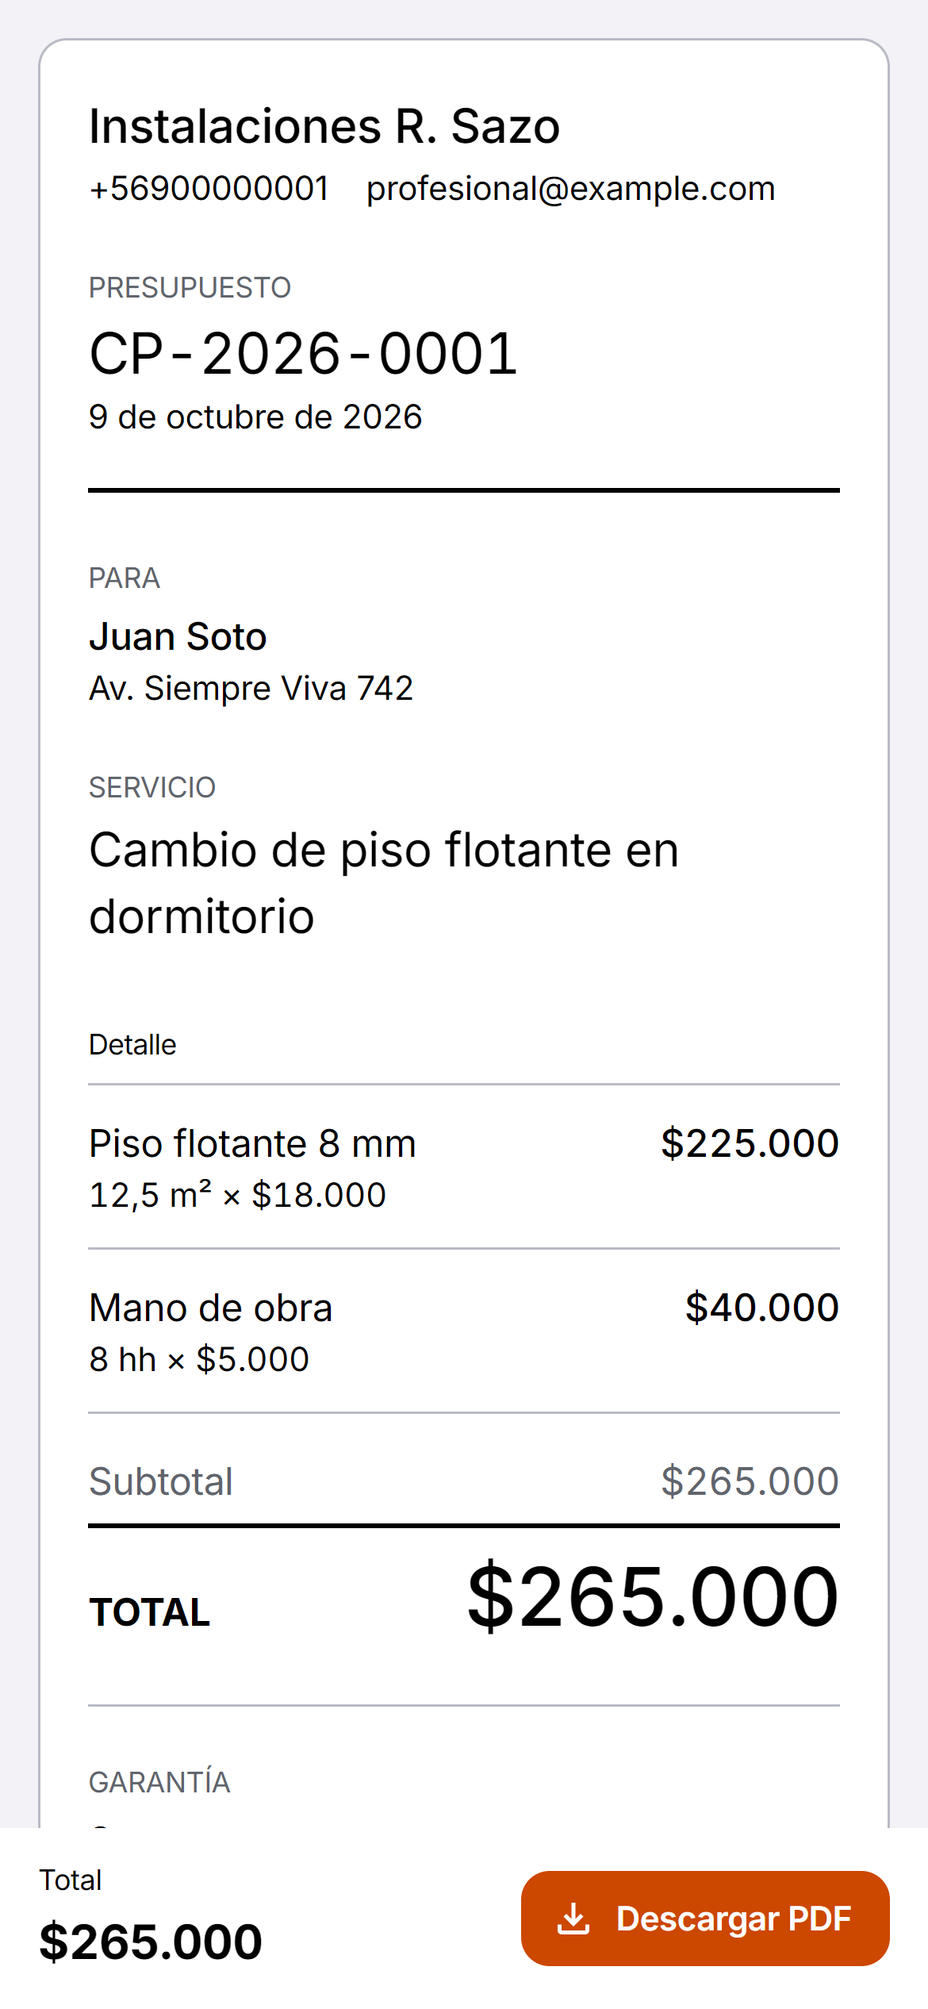
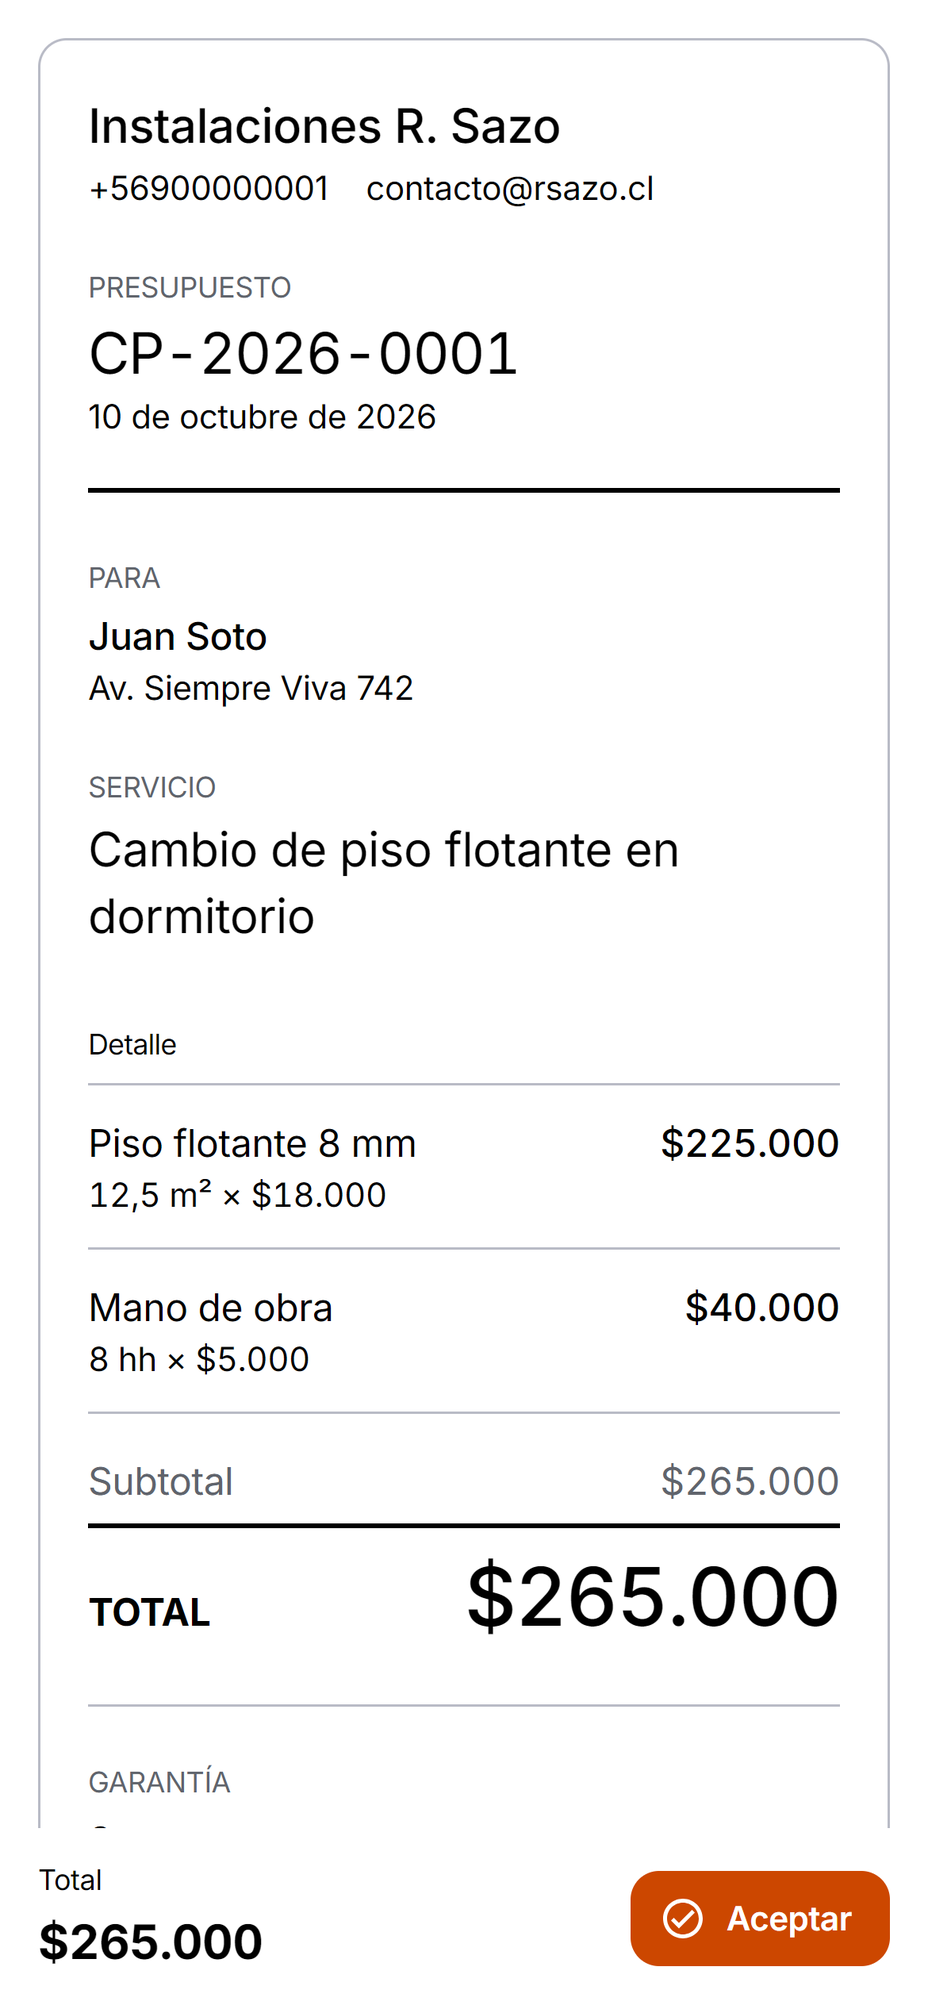
feat(web): la vista del cliente permite aceptar el presupuesto y ya no ofrece el PDF
Panel con «Aceptar el presupuesto» (confirmación en un segundo paso; abierta si llega desde el correo con ?aceptar=1), Llamar y WhatsApp, y el timbre «ACEPTADO» con la fecha. Los textos de la web, la portada y la app dejan de prometer el PDF al cliente antes de aceptar; la foto del teléfono del cliente se cambia por la nueva vista, sin fondo gris.

Changed region(s): [[0.5538, 0.9048, 0.9231, 0.9984], [0.4308, 0.0624, 0.7385, 0.1248], [0.0923, 0.1872, 0.4615, 0.2184]]

diff --git a/frontend/src/app/q/[token]/aceptar.tsx b/frontend/src/app/q/[token]/aceptar.tsx
@@ -1,0 +1,141 @@
+"use client";
+
+import CheckCircleOutline from "@mui/icons-material/CheckCircleOutlined";
+import PhoneOutlined from "@mui/icons-material/PhoneOutlined";
+import WhatsApp from "@mui/icons-material/WhatsApp";
+import Alert from "@mui/material/Alert";
+import Box from "@mui/material/Box";
+import Button from "@mui/material/Button";
+import Paper from "@mui/material/Paper";
+import Stack from "@mui/material/Stack";
+import Typography from "@mui/material/Typography";
+import { useEffect, useRef, useState, useTransition } from "react";
+import { aceptarAction, type EstadoAceptar } from "./acciones";
+
+type Props = {
+  token: string;
+  numero: string;
+  total: string;
+  profesional: { name: string; phone: string };
+  aceptadoEl: string | null; // la fecha legible, si ya está aceptado
+  puede: boolean; // la API dice si todavía se puede aceptar (no vencido, rechazado ni reemplazado)
+  abrir: boolean; // llegó desde el botón «Aceptar el presupuesto» del correo (?aceptar=1): la confirmación ya abierta
+};
+
+// Lo que el cliente puede hacer con su presupuesto (Contrato API §10): aceptarlo, confirmando en un segundo paso (un filtro de correo
+// que abre el enlace no acepta nada), o hablar con el profesional. No hay botón de rechazar. Incluye la barra fija del teléfono, que
+// comparte el estado: «Aceptar» ahí abre la misma confirmación.
+export function Aceptar({ token, numero, total, profesional, aceptadoEl, puede, abrir }: Props) {
+  const [confirmando, setConfirmando] = useState(abrir && puede);
+  const [estado, setEstado] = useState<EstadoAceptar>({});
+  const [enCurso, empezar] = useTransition();
+  const panel = useRef<HTMLDivElement>(null);
+  const tel = profesional.phone.replace(/\D/g, "");
+
+  useEffect(() => {
+    if (abrir && puede) panel.current?.scrollIntoView({ block: "center" });
+  }, [abrir, puede]);
+
+  const abrirConfirmacion = () => {
+    setConfirmando(true);
+    panel.current?.scrollIntoView({ block: "center" });
+  };
+  const aceptar = () => empezar(async () => setEstado(await aceptarAction(token)));
+  const sePuede = puede && !estado.listo && !aceptadoEl;
+
+  return (
+    <>
+      <Paper id="aceptar" ref={panel} component="section" aria-label="Aceptar el presupuesto" sx={{ p: { xs: 2.5, sm: 4 }, display: "flex", flexDirection: "column", gap: 2.5, scrollMarginTop: 16 }}>
+        {estado.listo ? (
+          <Alert severity="success" role="status">
+            ¡Listo! Aceptaste el presupuesto {numero}. {estado.correo ? "Te enviamos el PDF con el timbre «Aceptado» a tu correo. " : ""}
+            {profesional.name} se pondrá en contacto contigo para coordinar el trabajo.
+          </Alert>
+        ) : aceptadoEl ? (
+          <Alert severity="success">
+            Aceptaste este presupuesto el {aceptadoEl}. {profesional.name} se pondrá en contacto contigo para coordinar el trabajo.
+          </Alert>
+        ) : !puede ? (
+          <Alert severity="info">Este presupuesto ya no se puede aceptar en línea. Habla con {profesional.name} para revisarlo.</Alert>
+        ) : confirmando ? (
+          <Stack spacing={2}>
+            <Typography variant="h6" component="h2">
+              ¿Aceptas el presupuesto {numero} por {total}?
+            </Typography>
+            <Typography color="text.secondary">
+              {profesional.name} recibe el aviso al instante y te enviamos el PDF con el timbre «Aceptado» al correo con el que te llegó.
+            </Typography>
+            {estado.error ? <Alert severity="error">{estado.error}</Alert> : null}
+            <Box sx={{ display: "flex", flexWrap: "wrap", gap: 1.5 }}>
+              <Button variant="contained" size="large" startIcon={<CheckCircleOutline />} onClick={aceptar} loading={enCurso} loadingPosition="start" autoFocus>
+                Sí, acepto el presupuesto
+              </Button>
+              <Button size="large" onClick={() => setConfirmando(false)} disabled={enCurso}>
+                Volver
+              </Button>
+            </Box>
+          </Stack>
+        ) : (
+          <Stack spacing={2} sx={{ alignItems: "flex-start" }}>
+            <Typography variant="h6" component="h2">
+              ¿Te parece bien?
+            </Typography>
+            <Button variant="contained" size="large" startIcon={<CheckCircleOutline />} onClick={abrirConfirmacion}>
+              Aceptar el presupuesto
+            </Button>
+          </Stack>
+        )}
+
+        <Stack spacing={1.5} sx={{ pt: 2.5, borderTop: 1, borderColor: "divider" }}>
+          <Typography color="text.secondary">¿Tienes dudas o quieres cambiar algo? Habla con {profesional.name}:</Typography>
+          <Box sx={{ display: "flex", flexWrap: "wrap", gap: 1.5 }}>
+            <Button href={`tel:${profesional.phone}`} variant="outlined" size="large" startIcon={<PhoneOutlined />}>
+              Llamar por teléfono
+            </Button>
+            <Button href={`https://wa.me/${tel}`} target="_blank" rel="noopener noreferrer" variant="outlined" size="large" startIcon={<WhatsApp />}>
+              Escribir por WhatsApp
+            </Button>
+          </Box>
+        </Stack>
+      </Paper>
+
+      {/* En el teléfono, una barra fija abajo con el total y la acción a mano. */}
+      <Paper
+        square
+        elevation={8}
+        sx={{
+          display: { xs: "flex", sm: "none" },
+          position: "sticky",
+          bottom: 0,
+          zIndex: 10,
+          mx: -2,
+          mb: -2,
+          px: 2,
+          pt: 1.5,
+          pb: "max(12px, env(safe-area-inset-bottom, 0px))", // el indicador de inicio del iPhone no tapa el botón
+          alignItems: "center",
+          justifyContent: "space-between",
+          gap: 2,
+        }}
+      >
+        <Box sx={{ display: "flex", flexDirection: "column", lineHeight: 1.2, fontVariantNumeric: "tabular-nums" }}>
+          <Typography variant="caption" color="text.secondary">
+            Total
+          </Typography>
+          <Typography variant="h6" component="span" sx={{ fontWeight: 700 }}>
+            {total}
+          </Typography>
+        </Box>
+        {sePuede ? (
+          <Button variant="contained" startIcon={<CheckCircleOutline />} onClick={abrirConfirmacion}>
+            Aceptar
+          </Button>
+        ) : (
+          <Button href={`tel:${profesional.phone}`} variant="outlined" startIcon={<PhoneOutlined />}>
+            Llamar
+          </Button>
+        )}
+      </Paper>
+    </>
+  );
+}

diff --git a/frontend/src/app/q/[token]/page.tsx b/frontend/src/app/q/[token]/page.tsx
@@ -1,7 +1,5 @@
 import type { Metadata } from "next";
-import FileDownloadOutlined from "@mui/icons-material/FileDownloadOutlined";
 import Box from "@mui/material/Box";
-import Button from "@mui/material/Button";
 import Chip from "@mui/material/Chip";
 import Divider from "@mui/material/Divider";
 import Link from "@mui/material/Link";
@@ -14,12 +12,13 @@ import { porcentajeDe } from "@/lib/descuento";
 import { cant, dinero } from "@/lib/formato";
 import { simboloUnidad } from "@/lib/opciones";
 import { tasaLegible } from "@/lib/paises";
+import { Aceptar } from "./aceptar";
 import { LogoProfesional } from "./logo-profesional";
 
 export const metadata: Metadata = { title: "Presupuesto · CORE Presupuestos", robots: { index: false, follow: false } };
 
-// Vista pública del cliente (Contrato API §10): solo lectura, sin cuenta. Se abre sobre todo en el teléfono, desde el
-// enlace que llega por WhatsApp o correo.
+// Vista pública del cliente (Contrato API §10): sin cuenta, solo para revisar y aceptar. Se abre sobre todo en el teléfono, desde el
+// enlace que llega por WhatsApp o correo. No ofrece el PDF: es el documento oficial y el cliente lo recibe por correo al aceptar.
 type Publico = {
   number: string;
   version?: number;
@@ -44,6 +43,8 @@ type Publico = {
   warranty: { text: string };
   validity_days: number;
   observations: string | null;
+  accepted_on: string | null;
+  can_accept: boolean;
 };
 
 // La fecha de emisión es la fijada al terminar (en la zona de quien emitió); los presupuestos anteriores solo traen la hora.
@@ -53,8 +54,8 @@ const dia = (ymd: string) => fecha(`${ymd}T12:00:00Z`, "UTC");
 const ROTULO = { typography: "overline", color: "text.secondary", lineHeight: 2 } as const;
 const FILA_TOTAL = { display: "flex", justifyContent: "space-between", gap: 2, color: "text.secondary" } as const;
 
-export default async function VistaPublica({ params }: { params: Promise<{ token: string }> }) {
-  const { token } = await params;
+export default async function VistaPublica({ params, searchParams }: { params: Promise<{ token: string }>; searchParams: Promise<{ aceptar?: string }> }) {
+  const [{ token }, { aceptar }] = await Promise.all([params, searchParams]);
   let q: Publico;
   try {
     q = await api<Publico>(`/public/quotes/${encodeURIComponent(token)}`);
@@ -101,6 +102,17 @@ export default async function VistaPublica({ params }: { params: Promise<{ token
             <Typography variant="body2" color="text.secondary">
               {q.issued_on ? dia(q.issued_on) : fecha(q.finalized_at, q.timezone)}
             </Typography>
+            {/* El timbre, como el del PDF: verde, con la fecha de aceptación. */}
+            {q.accepted_on ? (
+              <Box sx={{ display: "inline-flex", flexDirection: "column", alignItems: "center", mt: 1.5, px: 2, py: 0.5, border: 2, borderColor: "success.main", borderRadius: 1, color: "success.main" }}>
+                <Typography component="span" sx={{ fontWeight: 700, letterSpacing: "0.12em" }}>
+                  ACEPTADO
+                </Typography>
+                <Typography component="span" variant="caption">
+                  el {dia(q.accepted_on)}
+                </Typography>
+              </Box>
+            ) : null}
           </Box>
         </Box>
 
@@ -210,44 +222,18 @@ export default async function VistaPublica({ params }: { params: Promise<{ token
         </Box>
       </Paper>
 
-      {/* En pantallas anchas el botón va bajo el documento; en el teléfono, en una barra fija abajo (siempre a mano). */}
-      <Button href={`${base}/pdf`} download variant="contained" size="large" startIcon={<FileDownloadOutlined />} sx={{ display: { xs: "none", sm: "inline-flex" }, alignSelf: "center", px: 4 }}>
-        Descargar PDF
-      </Button>
+      <Aceptar
+        token={token}
+        numero={q.number}
+        total={clp(q.total)}
+        profesional={q.professional}
+        aceptadoEl={q.accepted_on ? dia(q.accepted_on) : null}
+        puede={q.can_accept}
+        abrir={aceptar === "1"}
+      />
       <Typography variant="body2" color="text.secondary" sx={{ textAlign: "center" }}>
         Presupuesto comercial. No es un documento tributario.
       </Typography>
-
-      <Paper
-        square
-        elevation={8}
-        sx={{
-          display: { xs: "flex", sm: "none" },
-          position: "sticky",
-          bottom: 0,
-          zIndex: 10,
-          mx: -2,
-          mb: -2,
-          px: 2,
-          pt: 1.5,
-          pb: "max(12px, env(safe-area-inset-bottom, 0px))", // el indicador de inicio del iPhone no tapa el botón
-          alignItems: "center",
-          justifyContent: "space-between",
-          gap: 2,
-        }}
-      >
-        <Box sx={{ display: "flex", flexDirection: "column", lineHeight: 1.2, fontVariantNumeric: "tabular-nums" }}>
-          <Typography variant="caption" color="text.secondary">
-            Total
-          </Typography>
-          <Typography variant="h6" component="span" sx={{ fontWeight: 700 }}>
-            {clp(q.total)}
-          </Typography>
-        </Box>
-        <Button href={`${base}/pdf`} download variant="contained" startIcon={<FileDownloadOutlined />}>
-          Descargar PDF
-        </Button>
-      </Paper>
     </Box>
   );
 }

diff --git a/frontend/src/app/page.tsx b/frontend/src/app/page.tsx
@@ -54,8 +54,8 @@ const PASOS = [
   },
   {
     titulo: "Envía al cliente",
-    detalle: "El PDF sale por correo, con tu logo y tus datos, y el aviso por WhatsApp va en el mismo paso.",
-    muestra: ["PDF adjunto", "Correo", "WhatsApp"],
+    detalle: "Le llega por correo o WhatsApp, con tu logo y tus datos y un botón para aceptarlo. Cuando acepta, recibe el PDF con el timbre «Aceptado» y tú lo ves en la app.",
+    muestra: ["Correo con «Aceptar»", "WhatsApp", "PDF al aceptar"],
   },
   {
     titulo: "Haz seguimiento",
@@ -75,7 +75,7 @@ const ICONOS = {
   boleta: "M18 17H6v-2h12v2zm0-4H6v-2h12v2zm0-4H6V7h12v2zM3 22l1.5-1.5L6 22l1.5-1.5L9 22l1.5-1.5L12 22l1.5-1.5L15 22l1.5-1.5L18 22l1.5-1.5L21 22V2l-1.5 1.5L18 2l-1.5 1.5L15 2l-1.5 1.5L12 2l-1.5 1.5L9 2 7.5 3.5 6 2 4.5 3.5 3 2v20z",
   ver: "M12 4.5C7 4.5 2.73 7.61 1 12c1.73 4.39 6 7.5 11 7.5s9.27-3.11 11-7.5c-1.73-4.39-6-7.5-11-7.5zM12 17c-2.76 0-5-2.24-5-5s2.24-5 5-5 5 2.24 5 5-2.24 5-5 5zm0-8c-1.66 0-3 1.34-3 3s1.34 3 3 3 3-1.34 3-3-1.34-3-3-3z",
   enviar: "M2.01 21 23 12 2.01 3 2 10l15 2-15 2z",
-  descargar: "M19 9h-4V3H9v6H5l7 7 7-7zM5 18v2h14v-2H5z",
+  aceptar: "M9 16.17 4.83 12l-1.42 1.41L9 19 21 7l-1.41-1.41z",
   candado: "M18 8h-1V6c0-2.76-2.24-5-5-5S7 3.24 7 6v2H6c-1.1 0-2 .9-2 2v10c0 1.1.9 2 2 2h12c1.1 0 2-.9 2-2V10c0-1.1-.9-2-2-2zm-6 9c-1.1 0-2-.9-2-2s.9-2 2-2 2 .9 2 2-.9 2-2 2zm3.1-9H8.9V6c0-1.71 1.39-3.1 3.1-3.1 1.71 0 3.1 1.39 3.1 3.1v2z",
   enlace: "M3.9 12c0-1.71 1.39-3.1 3.1-3.1h4V7H7c-2.76 0-5 2.24-5 5s2.24 5 5 5h4v-1.9H7c-1.71 0-3.1-1.39-3.1-3.1zM8 13h8v-2H8v2zm9-6h-4v1.9h4c1.71 0 3.1 1.39 3.1 3.1s-1.39 3.1-3.1 3.1h-4V17h4c2.76 0 5-2.24 5-5s-2.24-5-5-5z",
 };
@@ -136,7 +136,7 @@ const PREGUNTAS = [
   },
   {
     pregunta: "¿Mi cliente tiene que instalar algo?",
-    respuesta: "No. Le llega un enlace por WhatsApp o por correo y lo abre en su teléfono o en su computador. Puede ver el presupuesto y descargar el PDF, pero no modificarlo.",
+    respuesta: "No. Le llega un enlace por WhatsApp o por correo y lo abre en su teléfono o en su computador. Ahí revisa el presupuesto y lo acepta con un toque; al aceptarlo, recibe el PDF por correo. No puede modificarlo.",
   },
   {
     pregunta: "¿Puedo terminarlo en el computador?",
@@ -325,15 +325,15 @@ export default function Landing() {
               { icono: ICONOS.boleta, titulo: "Ítems y total", detalle: "Cantidad, unidad y precio en cada línea. El total se calcula solo." },
               { icono: ICONOS.documento, titulo: "Descuento e impuesto", detalle: "El IVA (o el impuesto de tu país) con su tasa, junto con la garantía y la vigencia." },
               { icono: ICONOS.ver, titulo: "Vista previa del PDF", detalle: "Míralo tal como le llegará a tu cliente, antes de enviarlo." },
-              { icono: ICONOS.enviar, titulo: "Terminar y enviar", detalle: "Por correo con el PDF, o por WhatsApp, desde ahí mismo." },
+              { icono: ICONOS.enviar, titulo: "Terminar y enviar", detalle: "Por correo, con el botón para que tu cliente lo acepte, o por WhatsApp." },
             ]}
           />
           <Lado
             invertido
             visual={
-              <div className="flex justify-center rounded-xl bg-niebla px-6 py-8">
+              <div className="flex justify-center">
                 <div className="w-full max-w-[15rem]">
-                  <Telefono foto={clienteTelefono} alt="Lo que recibe el cliente en su teléfono: quién lo envía, el número del presupuesto, el detalle, el total y Descargar PDF" />
+                  <Telefono foto={clienteTelefono} alt="Lo que recibe el cliente en su teléfono: quién lo envía, el número del presupuesto, el detalle, el total y el botón Aceptar" />
                 </div>
               </div>
             }
@@ -343,7 +343,7 @@ export default function Landing() {
             puntos={[
               { icono: ICONOS.enlace, titulo: "Sin instalar nada", detalle: "Se abre en el navegador del teléfono, sin crear una cuenta." },
               { icono: ICONOS.clientes, titulo: "Fácil de leer", detalle: "Quién lo envía, el detalle de los trabajos y el total." },
-              { icono: ICONOS.descargar, titulo: "Descarga el PDF", detalle: "Con un toque, para guardarlo o reenviarlo." },
+              { icono: ICONOS.aceptar, titulo: "Lo acepta con un toque", detalle: "Y le llega el PDF con el timbre «Aceptado». Tú lo ves al instante en la app." },
               { icono: ICONOS.candado, titulo: "Solo lectura", detalle: "Puede verlo, pero no cambiar nada." },
             ]}
           />
@@ -428,7 +428,7 @@ export default function Landing() {
         <div className="flotante grid gap-6 p-6 lg:grid-cols-[minmax(0,1fr)_auto] lg:items-center lg:p-10">
           <div className="flex max-w-2xl flex-col gap-2">
             <h2 className="text-2xl font-semibold tracking-[-0.02em] sm:text-3xl">¿Tu profesional te envió un código?</h2>
-            <p className="text-muted">Ingrésalo para ver tu presupuesto, descargar el PDF o recibirlo por correo.</p>
+            <p className="text-muted">Ingrésalo para ver tu presupuesto y aceptarlo.</p>
           </div>
           <a href="#consulta" className="boton">
             Consultar mi presupuesto

diff --git a/mobile/src/components/resumen-cerrado.tsx b/mobile/src/components/resumen-cerrado.tsx
@@ -138,7 +138,7 @@ export function AccionesCerrado({ q, recargar, reserva, conCompartir }: { q: Pre
         <TextoM variante="chico" color="error" accessibilityRole="alert">{error}</TextoM>
       ) : null}
       <View style={e.fila}>
-        {q.public_url ? <BotonM titulo="Ver PDF" icono="documento" variante="secundario" onPress={verPdf} cargando={abriendo} disabled={sinSenal || abriendo} style={e.mitad} accessibilityLabel="Ver el PDF como lo recibe el cliente" /> : null}
+        {q.public_url ? <BotonM titulo="Ver PDF" icono="documento" variante="secundario" onPress={verPdf} cargando={abriendo} disabled={sinSenal || abriendo} style={e.mitad} accessibilityLabel="Ver el PDF del presupuesto" /> : null}
         {segundo === 'compartir' ? (
           <BotonM titulo="Compartir" icono="compartir" onPress={() => void compartir()} disabled={sinSenal || !q.public_url} style={e.mayor} />
         ) : segundo === 'llamar' ? (

diff --git a/frontend/src/lib/whatsapp.ts b/frontend/src/lib/whatsapp.ts
@@ -3,7 +3,7 @@ export function enlaceWhatsApp(telefono: string, mensaje: string): string {
   return `https://wa.me/${telefono.replace(/\D/g, '')}?text=${encodeURIComponent(mensaje)}`;
 }
 
-// `enlace` es la vista pública del presupuesto (/q/[token]): el cliente la abre sin instalar nada y descarga el PDF.
+// `enlace` es la vista pública del presupuesto (/q/[token]): el cliente la abre sin instalar nada y desde ahí lo acepta.
 export function mensajePresupuesto(d: { nombre: string; numero: string; total: string; descripcion: string; enlace: string }): string {
-  return `Hola ${d.nombre}, te envié el presupuesto ${d.numero} por ${d.total} (${d.descripcion}). Puedes verlo y descargar el PDF aquí: ${d.enlace}`;
+  return `Hola ${d.nombre}, te envié el presupuesto ${d.numero} por ${d.total} (${d.descripcion}). Puedes revisarlo y aceptarlo aquí: ${d.enlace}`;
 }

diff --git a/frontend/src/app/q/[token]/acciones.ts b/frontend/src/app/q/[token]/acciones.ts
@@ -1,0 +1,18 @@
+"use server";
+
+import { refresh } from "next/cache";
+import { api, ApiError } from "@/lib/api";
+
+export type EstadoAceptar = { listo?: boolean; correo?: boolean; error?: string };
+
+// El cliente acepta su presupuesto (Contrato API §10). La API decide si todavía se puede; aquí solo se muestra lo que responde.
+// `refresh` vuelve a dibujar la página: aparece el timbre «Aceptado».
+export async function aceptarAction(token: string): Promise<EstadoAceptar> {
+  try {
+    const r = await api<{ confirmation_sent: boolean }>(`/public/quotes/${encodeURIComponent(token)}/accept`, { method: "POST" });
+    refresh();
+    return { listo: true, correo: r.confirmation_sent };
+  } catch (e) {
+    return { error: e instanceof ApiError ? e.message : "No se pudo aceptar. Intenta de nuevo." };
+  }
+}

diff --git a/frontend/src/app/presupuesto/enviar-correo.tsx b/frontend/src/app/presupuesto/enviar-correo.tsx
@@ -33,7 +33,7 @@ export function EnviarCorreo({ destino, etiqueta = "Enviar a correo" }: { destin
         {etiqueta}
       </Button>
       <Typography variant="caption" color="text.secondary">
-        {destino ? `Se envía con el PDF adjunto a ${destino}.` : "Se envía con el PDF adjunto."}
+        {destino ? `Le llega a ${destino} con el botón para aceptarlo. El PDF se lo enviamos cuando lo acepte.` : "Le llega con el botón para aceptarlo. El PDF se lo enviamos cuando lo acepte."}
       </Typography>
       <Typography role="status" aria-live="polite" variant="body2" color={estado.ok ? "success.main" : "error.main"} sx={{ minHeight: 20 }}>
         {estado.mensaje}

diff --git a/mobile/src/components/cierre.tsx b/mobile/src/components/cierre.tsx
@@ -288,7 +288,7 @@ export function useEnvio(q: Presupuesto, recargar: () => Promise<void>) {
   const confirmar = (titulo: string, ok: string, alConfirmar: () => void) =>
     decidir(titulo, undefined, [{ text: 'No', style: 'cancel' }, { text: ok, onPress: alConfirmar }]);
 
-  const mensaje = `Hola ${q.customer.name}, te comparto tu presupuesto ${q.number}: ${q.public_url}`;
+  const mensaje = `Hola ${q.customer.name}, te comparto tu presupuesto ${q.number}. Puedes revisarlo y aceptarlo aquí: ${q.public_url}`;
 
   async function compartir() {
     const r = await Share.share({ message: mensaje });

diff --git a/frontend/src/app/presupuesto/editor.tsx b/frontend/src/app/presupuesto/editor.tsx
@@ -531,7 +531,7 @@ export function Editor({ inicial }: { inicial: Inicial }) {
                     {inicial.cliente.correo}
                     <Typography component="span" variant="body2" color="text.secondary">
                       {" "}
-                      · con el PDF
+                      · con el botón para aceptar
                     </Typography>
                   </>
                 ) : (
